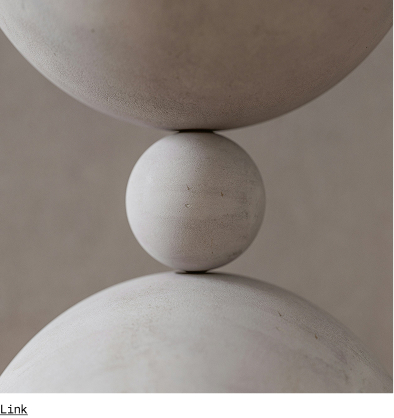
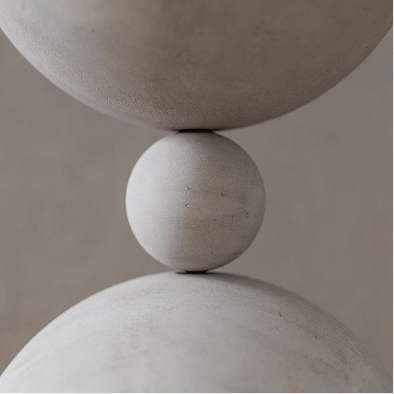
Add HTML structure for specification and testimonial

diff --git a/MPL.html b/MPL.html
@@ -113,8 +113,122 @@
                     </div>
                 </div>
             </section>
-            <section id="specification" class="specification"></section>
-            <section class="testimonial"></section>
+            <section id="specification" class="specification">
+                <div class="container">
+                    <div class="specification-wrapper">
+                        <div class="specification-top">
+                            <h2>Why Choose Area?</h2>
+                            <p>You need a solution that keeps up. That’s why we developed Area. A developer-friendly approach to streamline your business. </p>
+                            <a href="#" class="button" target="_blank">Discover More</a>
+                        </div>
+                        <table>
+                            <tr>
+                                <th>Area</th>
+                                <th>WebSurge</th>
+                                <th>HyperView</th>
+                            </tr>
+                            <tr>
+                                <td>
+                                    <svg width="16" height="16" viewBox="0 0 16 16" fill="none" xmlns="http://www.w3.org/2000/svg">
+                                        <path d="M14 4.66668L6.00004 12.6667L2.33337 9.00002L3.27337 8.06002L6.00004 10.78L13.06 3.72668L14 4.66668Z" fill="black"/>
+                                    </svg>Ultra-fast browsing</td>
+                                <td>
+                                    <svg width="16" height="16" viewBox="0 0 16 16" fill="none" xmlns="http://www.w3.org/2000/svg">
+                                        <path d="M14 4.66668L6.00004 12.6667L2.33337 9.00002L3.27337 8.06002L6.00004 10.78L13.06 3.72668L14 4.66668Z" fill="black"/>
+                                    </svg>Fast browsing</td>
+                                <td>
+                                    <svg width="16" height="16" viewBox="0 0 16 16" fill="none" xmlns="http://www.w3.org/2000/svg">
+                                        <path d="M8.97337 8.00004L12.6667 11.6934V12.6667H11.6934L8.00004 8.97337L4.30671 12.6667H3.33337V11.6934L7.02671 8.00004L3.33337 4.30671V3.33337H4.30671L8.00004 7.02671L11.6934 3.33337H12.6667V4.30671L8.97337 8.00004Z" fill="black"/>
+                                    </svg>Moderate speeds</td>
+                            </tr>
+                            <tr>
+                                <td>
+                                    <svg width="16" height="16" viewBox="0 0 16 16" fill="none" xmlns="http://www.w3.org/2000/svg">
+                                        <path d="M14 4.66668L6.00004 12.6667L2.33337 9.00002L3.27337 8.06002L6.00004 10.78L13.06 3.72668L14 4.66668Z" fill="black"/>
+                                    </svg>Advanced AI insights</td>
+                                <td>
+                                    <svg width="16" height="16" viewBox="0 0 16 16" fill="none" xmlns="http://www.w3.org/2000/svg">
+                                        <path d="M14 4.66668L6.00004 12.6667L2.33337 9.00002L3.27337 8.06002L6.00004 10.78L13.06 3.72668L14 4.66668Z" fill="black"/>
+                                    </svg>Basic AI recommendations</td>
+                                <td>
+                                    <svg width="16" height="16" viewBox="0 0 16 16" fill="none" xmlns="http://www.w3.org/2000/svg">
+                                        <path d="M8.97337 8.00004L12.6667 11.6934V12.6667H11.6934L8.00004 8.97337L4.30671 12.6667H3.33337V11.6934L7.02671 8.00004L3.33337 4.30671V3.33337H4.30671L8.00004 7.02671L11.6934 3.33337H12.6667V4.30671L8.97337 8.00004Z" fill="black"/>
+                                    </svg>No AI assistance</td>
+                            </tr>
+                            <tr>
+                                <td>
+                                    <svg width="16" height="16" viewBox="0 0 16 16" fill="none" xmlns="http://www.w3.org/2000/svg">
+                                        <path d="M14 4.66668L6.00004 12.6667L2.33337 9.00002L3.27337 8.06002L6.00004 10.78L13.06 3.72668L14 4.66668Z" fill="black"/>
+                                    </svg>Seamless integration</td>
+                                <td>
+                                    <svg width="16" height="16" viewBox="0 0 16 16" fill="none" xmlns="http://www.w3.org/2000/svg">
+                                        <path d="M14 4.66668L6.00004 12.6667L2.33337 9.00002L3.27337 8.06002L6.00004 10.78L13.06 3.72668L14 4.66668Z" fill="black"/>
+                                    </svg>Restricts customization</td>
+                                <td>
+                                    <svg width="16" height="16" viewBox="0 0 16 16" fill="none" xmlns="http://www.w3.org/2000/svg">
+                                        <path d="M8.97337 8.00004L12.6667 11.6934V12.6667H11.6934L8.00004 8.97337L4.30671 12.6667H3.33337V11.6934L7.02671 8.00004L3.33337 4.30671V3.33337H4.30671L8.00004 7.02671L11.6934 3.33337H12.6667V4.30671L8.97337 8.00004Z" fill="black"/>
+                                    </svg>Steep learning curve</td>
+                            </tr>
+                            <tr>
+                                <td>
+                                    <svg width="16" height="16" viewBox="0 0 16 16" fill="none" xmlns="http://www.w3.org/2000/svg">
+                                        <path d="M14 4.66668L6.00004 12.6667L2.33337 9.00002L3.27337 8.06002L6.00004 10.78L13.06 3.72668L14 4.66668Z" fill="black"/>
+                                    </svg>Advanced AI insights</td>
+                                <td>
+                                    <svg width="16" height="16" viewBox="0 0 16 16" fill="none" xmlns="http://www.w3.org/2000/svg">
+                                        <path d="M8.97337 8.00004L12.6667 11.6934V12.6667H11.6934L8.00004 8.97337L4.30671 12.6667H3.33337V11.6934L7.02671 8.00004L3.33337 4.30671V3.33337H4.30671L8.00004 7.02671L11.6934 3.33337H12.6667V4.30671L8.97337 8.00004Z" fill="black"/>
+                                    </svg>Basic AI insights</td>
+                                <td>
+                                    <svg width="16" height="16" viewBox="0 0 16 16" fill="none" xmlns="http://www.w3.org/2000/svg">
+                                        <path d="M8.97337 8.00004L12.6667 11.6934V12.6667H11.6934L8.00004 8.97337L4.30671 12.6667H3.33337V11.6934L7.02671 8.00004L3.33337 4.30671V3.33337H4.30671L8.00004 7.02671L11.6934 3.33337H12.6667V4.30671L8.97337 8.00004Z" fill="black"/>
+                                    </svg>No AI assistance</td>
+                            </tr>
+                            <tr>
+                                <td>
+                                    <svg width="16" height="16" viewBox="0 0 16 16" fill="none" xmlns="http://www.w3.org/2000/svg">
+                                        <path d="M14 4.66668L6.00004 12.6667L2.33337 9.00002L3.27337 8.06002L6.00004 10.78L13.06 3.72668L14 4.66668Z" fill="black"/>
+                                    </svg>Ultra-fast browsing</td>
+                                <td>
+                                    <svg width="16" height="16" viewBox="0 0 16 16" fill="none" xmlns="http://www.w3.org/2000/svg">
+                                        <path d="M14 4.66668L6.00004 12.6667L2.33337 9.00002L3.27337 8.06002L6.00004 10.78L13.06 3.72668L14 4.66668Z" fill="black"/>
+                                    </svg>Fast browsing</td>
+                                <td>
+                                    <svg width="16" height="16" viewBox="0 0 16 16" fill="none" xmlns="http://www.w3.org/2000/svg">
+                                        <path d="M8.97337 8.00004L12.6667 11.6934V12.6667H11.6934L8.00004 8.97337L4.30671 12.6667H3.33337V11.6934L7.02671 8.00004L3.33337 4.30671V3.33337H4.30671L8.00004 7.02671L11.6934 3.33337H12.6667V4.30671L8.97337 8.00004Z" fill="black"/>
+                                    </svg>Moderate speeds</td>
+                            </tr>
+                            <tr>
+                                <td>
+                                    <svg width="16" height="16" viewBox="0 0 16 16" fill="none" xmlns="http://www.w3.org/2000/svg">
+                                        <path d="M14 4.66668L6.00004 12.6667L2.33337 9.00002L3.27337 8.06002L6.00004 10.78L13.06 3.72668L14 4.66668Z" fill="black"/>
+                                    </svg>Full UTF-8 support</td>
+                                <td>
+                                    <svg width="16" height="16" viewBox="0 0 16 16" fill="none" xmlns="http://www.w3.org/2000/svg">
+                                        <path d="M8.97337 8.00004L12.6667 11.6934V12.6667H11.6934L8.00004 8.97337L4.30671 12.6667H3.33337V11.6934L7.02671 8.00004L3.33337 4.30671V3.33337H4.30671L8.00004 7.02671L11.6934 3.33337H12.6667V4.30671L8.97337 8.00004Z" fill="black"/>
+                                    </svg>Potential display errors</td>
+                                <td>
+                                    <svg width="16" height="16" viewBox="0 0 16 16" fill="none" xmlns="http://www.w3.org/2000/svg">
+                                        <path d="M8.97337 8.00004L12.6667 11.6934V12.6667H11.6934L8.00004 8.97337L4.30671 12.6667H3.33337V11.6934L7.02671 8.00004L3.33337 4.30671V3.33337H4.30671L8.00004 7.02671L11.6934 3.33337H12.6667V4.30671L8.97337 8.00004Z" fill="black"/>
+                                    </svg>Partial UTF-8 support</td>
+                            </tr>
+                        </table>
+                    </div>
+                </div>
+            </section>
+            <section class="testimonial">
+                <div class="container">
+                    <div class="testimonial-wrapper">
+                        <img src="img/Image 3.jpg" alt="A image of a concrete sphere, balanced between two other larger spheres">
+                    <div class="testimonial-quote">
+                        <p>“I was skeptical, but Area has completely transformed the way I manage my business. The data visualizations are so clear and intuitive, and the platform is so easy to use. I can't imagine running my company without it.”</p>
+                            <div class="testimonial-author">
+                                <p>John Smith</p>
+                                <p>Head of Data</p>
+                            </div>
+                    </div>
+                    </div>
+                </div>
+            </section>
             <section id="how-to" class="how-to"></section>
             <section id="contact" class="contact"></section>
         <footer>
